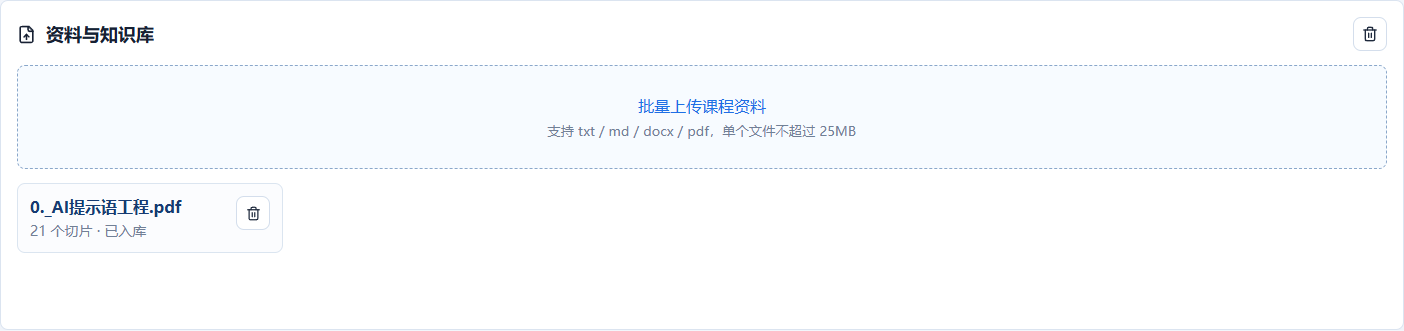
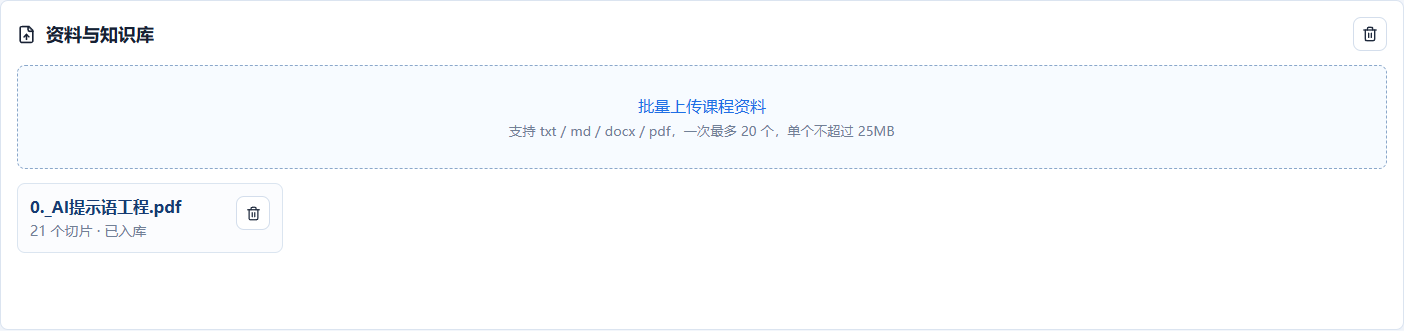
调整批量上传上限并恢复空资料启动
批量上传上限从 10 个改为 20 个，前端同步拦截与提示；截图脚本运行前备份数据、结束后恢复数据并清理临时服务，避免报告截图留下默认资料。

Changed region(s): [[0.3675, 0.3625, 0.6432, 0.423]]

diff --git a/frontend/src/App.vue b/frontend/src/App.vue
@@ -66,6 +66,7 @@ const faceProfileState = reactive({ enrolled: false, username: '杨翰飞', need
 const faceManageOpen = ref(false)
 const faceReplaceToken = ref('')
 const maxUploadBytes = 25 * 1024 * 1024
+const maxUploadFiles = 20
 let faceProfileLookupId = 0
 
 const providerDefaults = {
@@ -254,6 +255,10 @@ async function handleUpload(event) {
   const files = Array.from(event.target.files || [])
   event.target.value = ''
   if (!files.length) return
+  if (files.length > maxUploadFiles) {
+    status.warning = `一次最多上传 ${maxUploadFiles} 个文件，请分批选择。`
+    return
+  }
   const oversized = files.filter((file) => file.size > maxUploadBytes)
   if (oversized.length) {
     status.warning = `单个文件不能超过 25MB：${oversized.map((file) => file.name).join('、')}`

diff --git a/frontend/src/components/KnowledgePanel.vue b/frontend/src/components/KnowledgePanel.vue
@@ -25,7 +25,7 @@ function onUpload(event) {
     <label class="upload-box">
       <input type="file" multiple accept=".txt,.md,.docx,.pdf" :disabled="loading" @change="onUpload" />
       <span>批量上传课程资料</span>
-      <small>支持 txt / md / docx / pdf，单个文件不超过 25MB</small>
+      <small>支持 txt / md / docx / pdf，一次最多 20 个，单个不超过 25MB</small>
     </label>
     <div class="doc-list">
       <article v-for="doc in documents" :key="doc.id">

diff --git a/backend/app/main.py b/backend/app/main.py
@@ -23,7 +23,7 @@ from .workflow import (
 
 
 MAX_UPLOAD_BYTES = 25 * 1024 * 1024
-MAX_BATCH_FILES = 10
+MAX_BATCH_FILES = 20
 
 Provider = Literal["local_ollama", "cloud_ollama", "openai_compatible", "mock"]
 